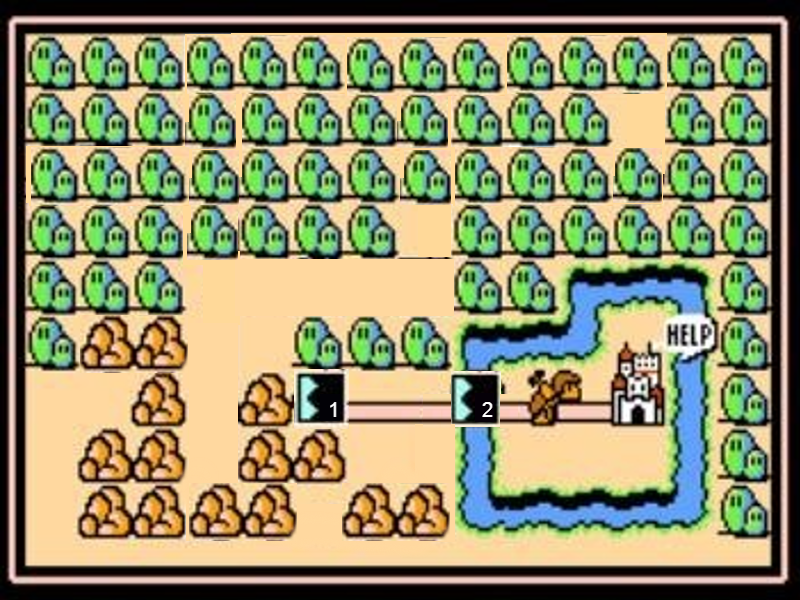
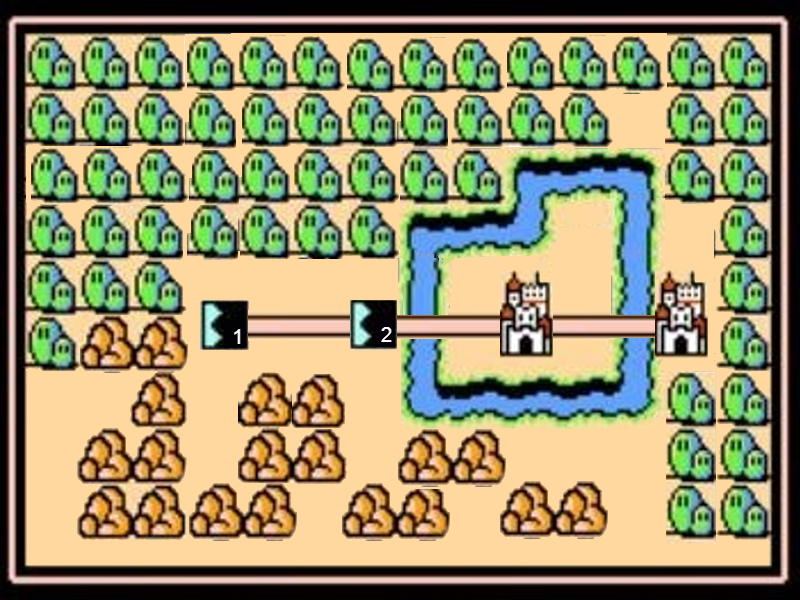
211124_1532
1. map3 완성
2. 스테이지 선택화면 이미지 변경

diff --git a/Player.py b/Player.py
@@ -1,9 +1,13 @@
+import Npc_Kinopio
+
 import Map_Bridge
 import Map_Lava
 import Map_MovingTile
+import Obstacle_Button
 import Obstacle_Rotatedfire
 import Obstacle_Rotatedfire_Center
 import game_framework
+import mob_kupa
 
 import state_select
 # import state_map2_2
@@ -737,9 +741,19 @@ class StageclearState:
             # 낙하 (수직낙하운동, FallState 와 동일한 로직)
             player.timer_jump += game_framework.frame_time
             player.y = (1/2) * GRAVITY_ACCEL_PPS2 * (player.timer_jump ** 2) + player.pos_startFalling
-        else:
+
+        # x축 이동
+        collipse = False
+        for obj in game_world.all_objects():
+            if obj.__class__ == Map_Castle.Door or obj.__class__ == Npc_Kinopio.Kinopio:
+                if collideCheck(player, obj) == 'left':
+                    player.y = obj.y - obj.frameY / 2 - player.frameY / 2
+                    collipse = True
+                    break
+
+        if not collipse:
             player.frame = (player.frame + FRAMES_PER_ACTION * ACTION_PER_TIME * game_framework.frame_time) % 2
-            #=== 발판에 도달하면 자동으로 x 축 이동을 한다.
+            #=== 자동으로 x 축 이동을 한다.
             player.x += player.velocity * game_framework.frame_time
             player.x = clamp(25, player.x, 6600 - 25)
 
@@ -1001,10 +1015,13 @@ class Player:
 
 
         #=== 스테이지 클리어 관련
-        # Flag
-        for flagbar in game_world.all_objects():
-            if flagbar.__class__ == Map_Flag.Bar:  # 충돌체크를 해야할 클래스의 이름
-                if not collideCheck(self, flagbar) == None:
+        # Flag, Button
+        for obj in game_world.all_objects():
+            if obj.__class__ == Map_Flag.Bar:  # 충돌체크를 해야할 클래스의 이름
+                if not collideCheck(self, obj) == None:
+                    self.add_event(STAGECLEAR_EVENT)
+            if obj.__class__ == Obstacle_Button.BoomButton:
+                if not collideCheck(self, obj) == None:
                     self.add_event(STAGECLEAR_EVENT)
 
 
@@ -1050,6 +1067,11 @@ class Player:
                 Map_MovingTile.show_bb = False
                 Map_Lava.show_bb = False
                 Obstacle_Rotatedfire.show_bb = False
+                Map_Bridge.show_bb = False
+                mob_kupa.show_bb = False
+                Npc_Kinopio.show_bb = False
+                Obstacle_Rotatedfire_Center.show_bb = False
+                Obstacle_Button.show_bb = False
             else:
                 self.show_bb = True
                 Map_Box.show_bb = True
@@ -1064,6 +1086,11 @@ class Player:
                 Map_MovingTile.show_bb = True
                 Map_Lava.show_bb = True
                 Obstacle_Rotatedfire.show_bb = True
+                Map_Bridge.show_bb = True
+                mob_kupa.show_bb = True
+                Npc_Kinopio.show_bb = True
+                Obstacle_Rotatedfire_Center.show_bb = True
+                Obstacle_Button.show_bb = True
 
         if (event.type, event.key) == (SDL_KEYDOWN, SDLK_s):
             score = game_data.gameData.score

diff --git a/state_select.py b/state_select.py
@@ -70,7 +70,7 @@ def handle_events():
                 else:
                     print('처음 스테이지여서 움직이지 못함')
             elif (event.type, event.key) == (SDL_KEYDOWN, SDLK_RIGHT):
-                if game_data.gameData.cur_stage < 3:
+                if game_data.gameData.cur_stage < 4:
                     game_data.gameData.cur_stage += 1
                     print('curStage 증가 -> curStage: ' + str(game_data.gameData.cur_stage))
                 else:
@@ -85,23 +85,28 @@ def handle_events():
             elif (event.type, event.key) == (SDL_KEYDOWN, SDLK_3):
                 print('치트키 - 해금 3')
                 game_data.gameData.unlocked_stage = 3
+            elif (event.type, event.key) == (SDL_KEYDOWN, SDLK_4):
+                print('치트키 - 해금 F')
+                game_data.gameData.unlocked_stage = 4
 
 
 def draw():
     clear_canvas()
     image.draw(400, 300)
 
-    if game_data.gameData.unlocked_stage == 1:
-        image_lock.draw(480, 200)
-        image_lock.draw(630, 200)
-    elif game_data.gameData.unlocked_stage == 2:
-        image_lock.draw(630, 200)
+    for i in range(4 - game_data.gameData.unlocked_stage, 0, -1):
+        image_lock.draw(200 + 150 * (4 - i) + 25, 300 - 20)
+    # if game_data.gameData.unlocked_stage == 1:
+    #     image_lock.draw(480, 200)
+    #     image_lock.draw(630, 200)
+    # elif game_data.gameData.unlocked_stage == 2:
+    #     image_lock.draw(630, 200)
 
-    drawX = 325 + 153 * (game_data.gameData.cur_stage - 1)
+    drawX = 200 + 150 * (game_data.gameData.cur_stage - 1)
     if game_data.gameData.transform == int(P_Transform.T_Basic):
-        image_mario.clip_draw(0, 90, 40, 30, drawX, 200)
+        image_mario.clip_draw(0, 90, 40, 30, drawX + 25, 300 - 20)
     else:
-        image_mario.clip_draw(0, 240, 40, 60, drawX, 220)
+        image_mario.clip_draw(0, 240, 40, 60, drawX + 25, 300 - 20)
 
     update_canvas()
 

diff --git a/Npc_Kinopio.py b/Npc_Kinopio.py
@@ -1,0 +1,51 @@
+from pico2d import *
+import enum
+
+import Map_Bridge
+import game_framework
+import game_world
+from collide import collideCheck
+import Map_Tile
+import Map_Box
+import Map_Brick
+import Map_Pipe
+
+show_bb = False
+
+class K_State(enum.IntEnum):
+    S_Idle = 0
+    S_Hello = enum.auto()
+
+class Kinopio():
+    image = None
+
+    def __init__(self):  # 생성자
+        self.frameX, self.frameY = 30, 60  # 한 프레임 크기 (캐릭터 리소스 수정 시 여기 부분 수정하면됨!)
+        self.x, self.y = 0, 0
+        self.scrollX = 0
+        self.state = K_State.S_Idle
+
+        # 이미지
+        if self.image == None:
+            self.image = load_image('kinopio.png')
+
+    def update(self):
+        pass
+
+    def draw(self):
+        # 렌더링
+        self.image.clip_draw(int(self.state) * self.frameX, 0, self.frameX, self.frameY
+                             , self.x - self.scrollX, self.y)
+
+        # bounding box
+        global show_bb
+        if show_bb:
+            draw_rectangle(self.x - self.frameX / 2 - self.scrollX, self.y + self.frameY / 2
+                           , self.x + self.frameX / 2 - self.scrollX, self.y - self.frameY / 2)
+
+
+def makeKino(xPos, yPos):
+    newNPC = Kinopio()
+    newNPC.x, newNPC.y = xPos, yPos - 15
+
+    game_world.add_object(newNPC, 1)

diff --git a/state_map3.py b/state_map3.py
@@ -1,6 +1,7 @@
 from pico2d import *
 
 import Map_Bridge
+import Npc_Kinopio
 import Obstacle_Button
 import ScrollManager
 import Trigger
@@ -95,7 +96,19 @@ def update():
                     if target.__class__ == Map_Bridge.BridgeBoom:
                         game_world.remove_object(target)
 
-                #game_world.remove_object(obj)
+        if obj.__class__ == Npc_Kinopio.Kinopio:
+            if player.x + 150 >= obj.x:
+                obj.state = Npc_Kinopio.K_State.S_Hello
+            else:
+                obj.state = Npc_Kinopio.K_State.S_Idle
+
+            if not collideCheck(player, obj) == None:
+                print('우리 공주 여기없음')
+                if player.stageclear and game_data.gameData.cur_stage <= game_data.gameData.unlocked_stage:
+                    game_data.gameData.unlocked_stage += 1  # 다음 스테이지 해금
+                    print('스테이지 ' + str(game_data.gameData.unlocked_stage) + ' 이 해금되었습니다.')  # test
+                # Game Data 업데이트
+                game_framework.change_state(state_select)  # 스테이지 선택화면으로 이동
 
     #=== 쿠파
     for kupa in game_world.all_objects():

diff --git a/MapEditor.py b/MapEditor.py
@@ -11,11 +11,13 @@ import Map_Flag
 import Map_MovingTile
 import Map_Bridge
 import Map_Lava
+import Npc_Kinopio
 import Obstacle_Rotatedfire_Center
 import Obstacle_Button
 import mob_goomba
 import Trigger
 import mob_kupa
+import Npc_Kinopio
 
 ground_data_file = None
 obj_data_file = None
@@ -150,6 +152,9 @@ def editMap(mapName):
                 Map_Castle.makeCastle(obj_xPos*size, obj_yPos*size)
             elif obj_type == "flag":
                 Map_Flag.makeFlag(obj_xPos*size, obj_yPos*size)
+            elif obj_type == "npc":
+                if obj_name == "npc_Kinopio":
+                    Npc_Kinopio.makeKino(obj_xPos*size, obj_yPos*size)
 
         except:
             break

diff --git a/mygame.py b/mygame.py
@@ -5,6 +5,6 @@ import state_intro
 import state_map3
 
 pico2d.open_canvas(800, 600)
-game_framework.run(state_map3)    # test때 바로 이동할 맵 정상 작동을 할때에 해당 줄을 주석처리하고 아래 줄을 실행
-#game_framework.run(state_intro)
+#game_framework.run(state_map3)    # test때 바로 이동할 맵 정상 작동을 할때에 해당 줄을 주석처리하고 아래 줄을 실행
+game_framework.run(state_intro)
 pico2d.close_canvas()

diff --git a/mob_kupa.py b/mob_kupa.py
@@ -26,7 +26,7 @@ def KMPH2MPS(KMPH): # km/h -> m/sec
     MPS = MPM / 60.0
     return MPS      #return m/sec
 
-MOVE_SPEED_PPS = (KMPH2MPS(5) * PIXEL_PER_METER)
+MOVE_SPEED_PPS = (KMPH2MPS(8) * PIXEL_PER_METER)
 DASH_SPPED_PPS = (KMPH2MPS(15) * PIXEL_PER_METER)
 GRAVITY_ACCEL_PPS2 = -400.0 # px/s^2
 
